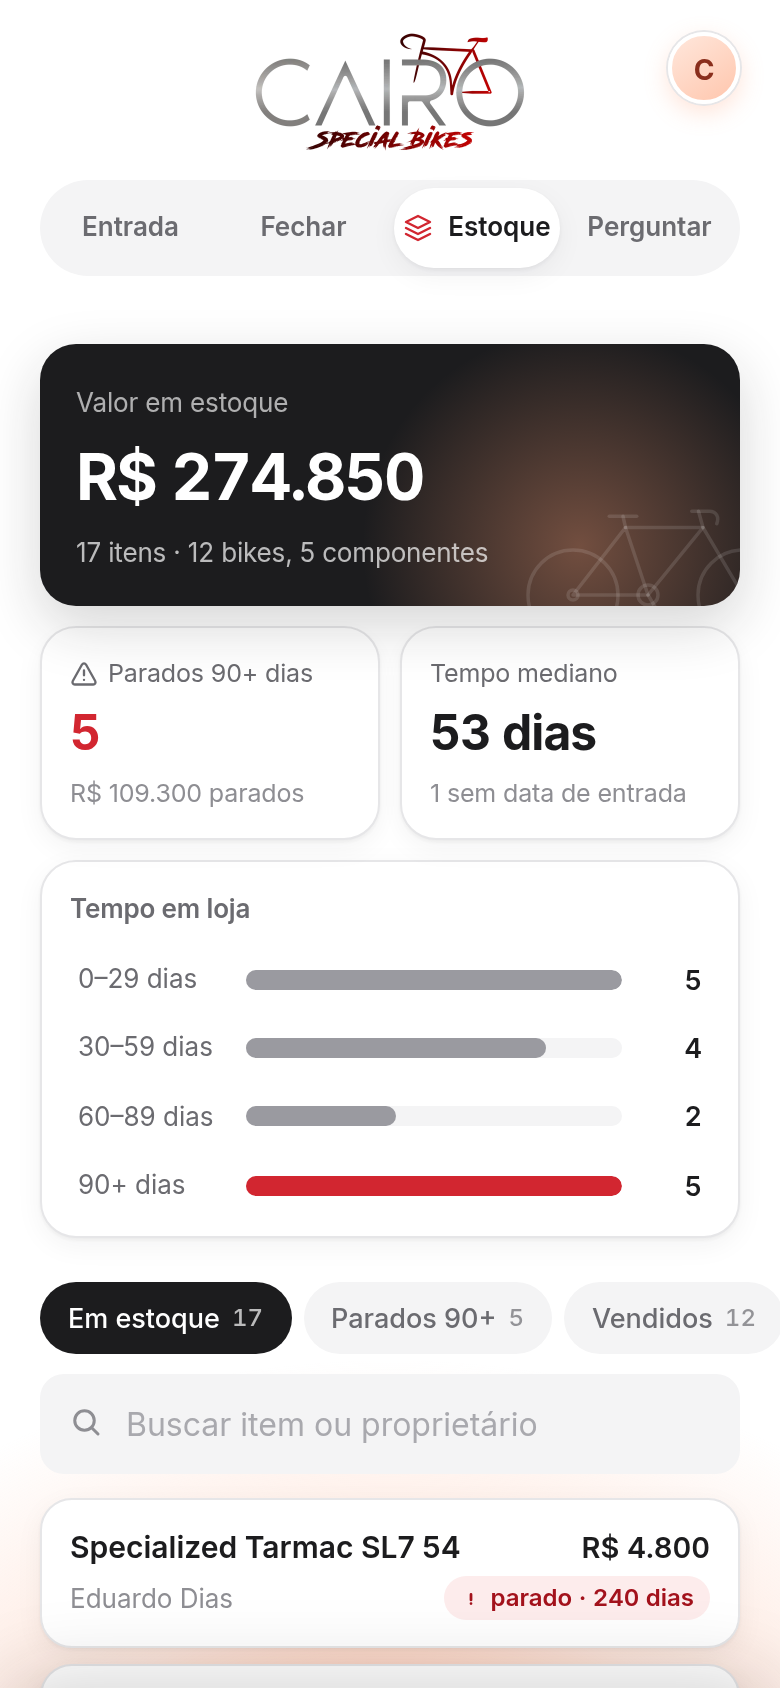
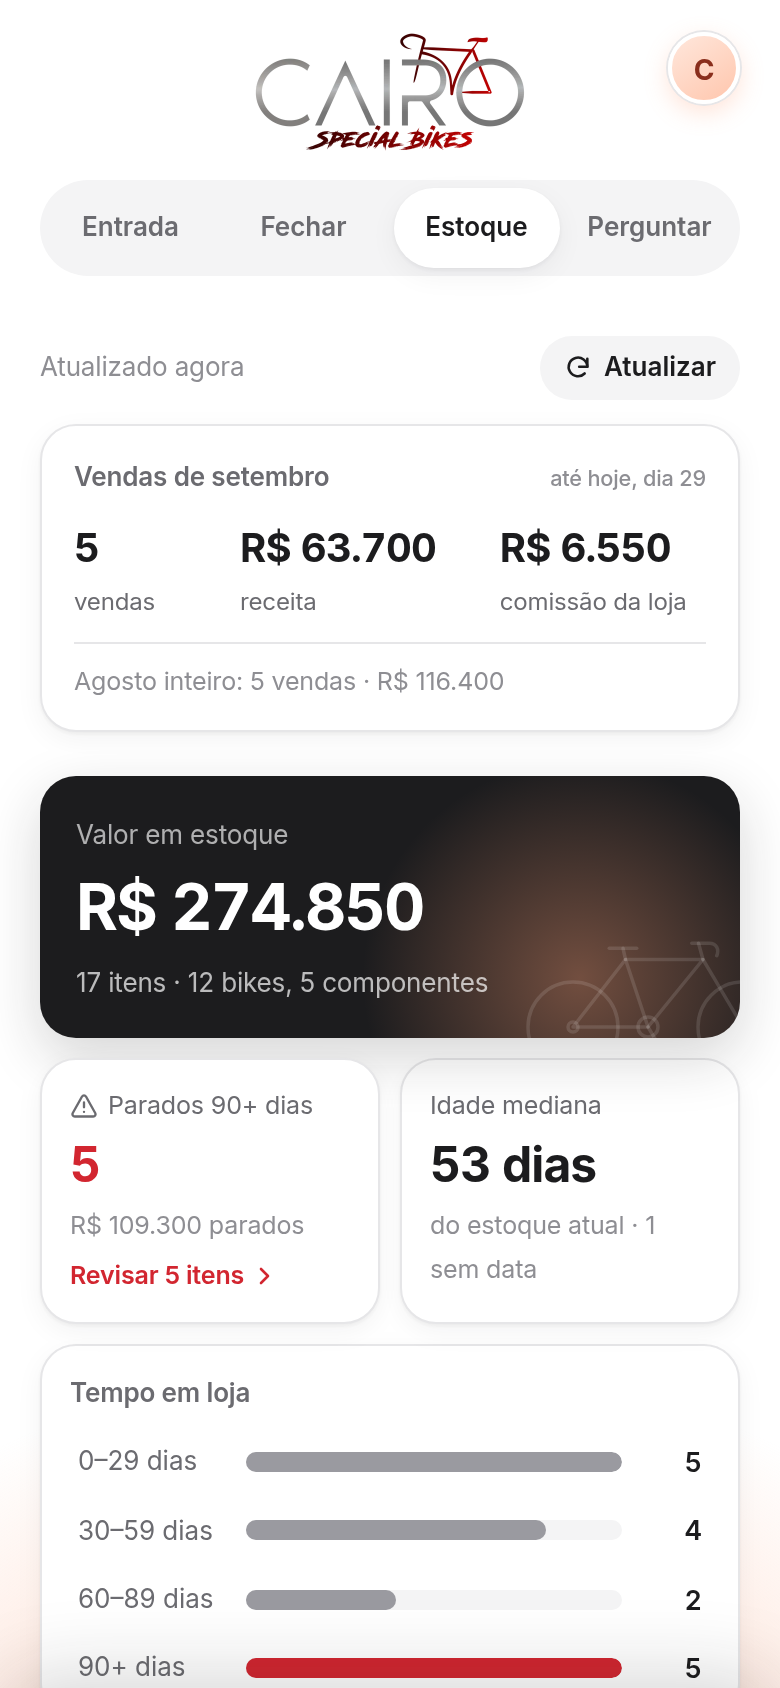
README: capturas novas do app (revisão dos parados e modo escuro), dados fictícios
Claude-Session: https://claude.ai/code/session_0181Zd3j4CEC7bwJv41Cw8wT

diff --git a/README.md b/README.md
@@ -151,7 +151,11 @@ Cadastrar uma bicicleta exigia mexer em três abas e digitar dois IDs à mão, e
   <img src="docs/app/correcao.png" width="200" alt="Correção de registro (dados fictícios)">
   <img src="docs/app/busca.png" width="200" alt="Busca de proprietário (dados fictícios)">
 </p>
-<p align="center"><sub><b>Dados fictícios</b> · Estoque · Ficha do proprietário · Correção de registro · Busca</sub></p>
+<p align="center">
+  <img src="docs/app/revisao_parados.png" width="200" alt="Revisão dos parados (dados fictícios)">
+  <img src="docs/app/estoque_escuro.png" width="200" alt="Estoque no modo escuro (dados fictícios)">
+</p>
+<p align="center"><sub><b>Dados fictícios</b> · Estoque · Ficha do proprietário · Correção de registro · Busca · Revisão dos parados · Modo escuro</sub></p>
 
 ## O assistente
 
